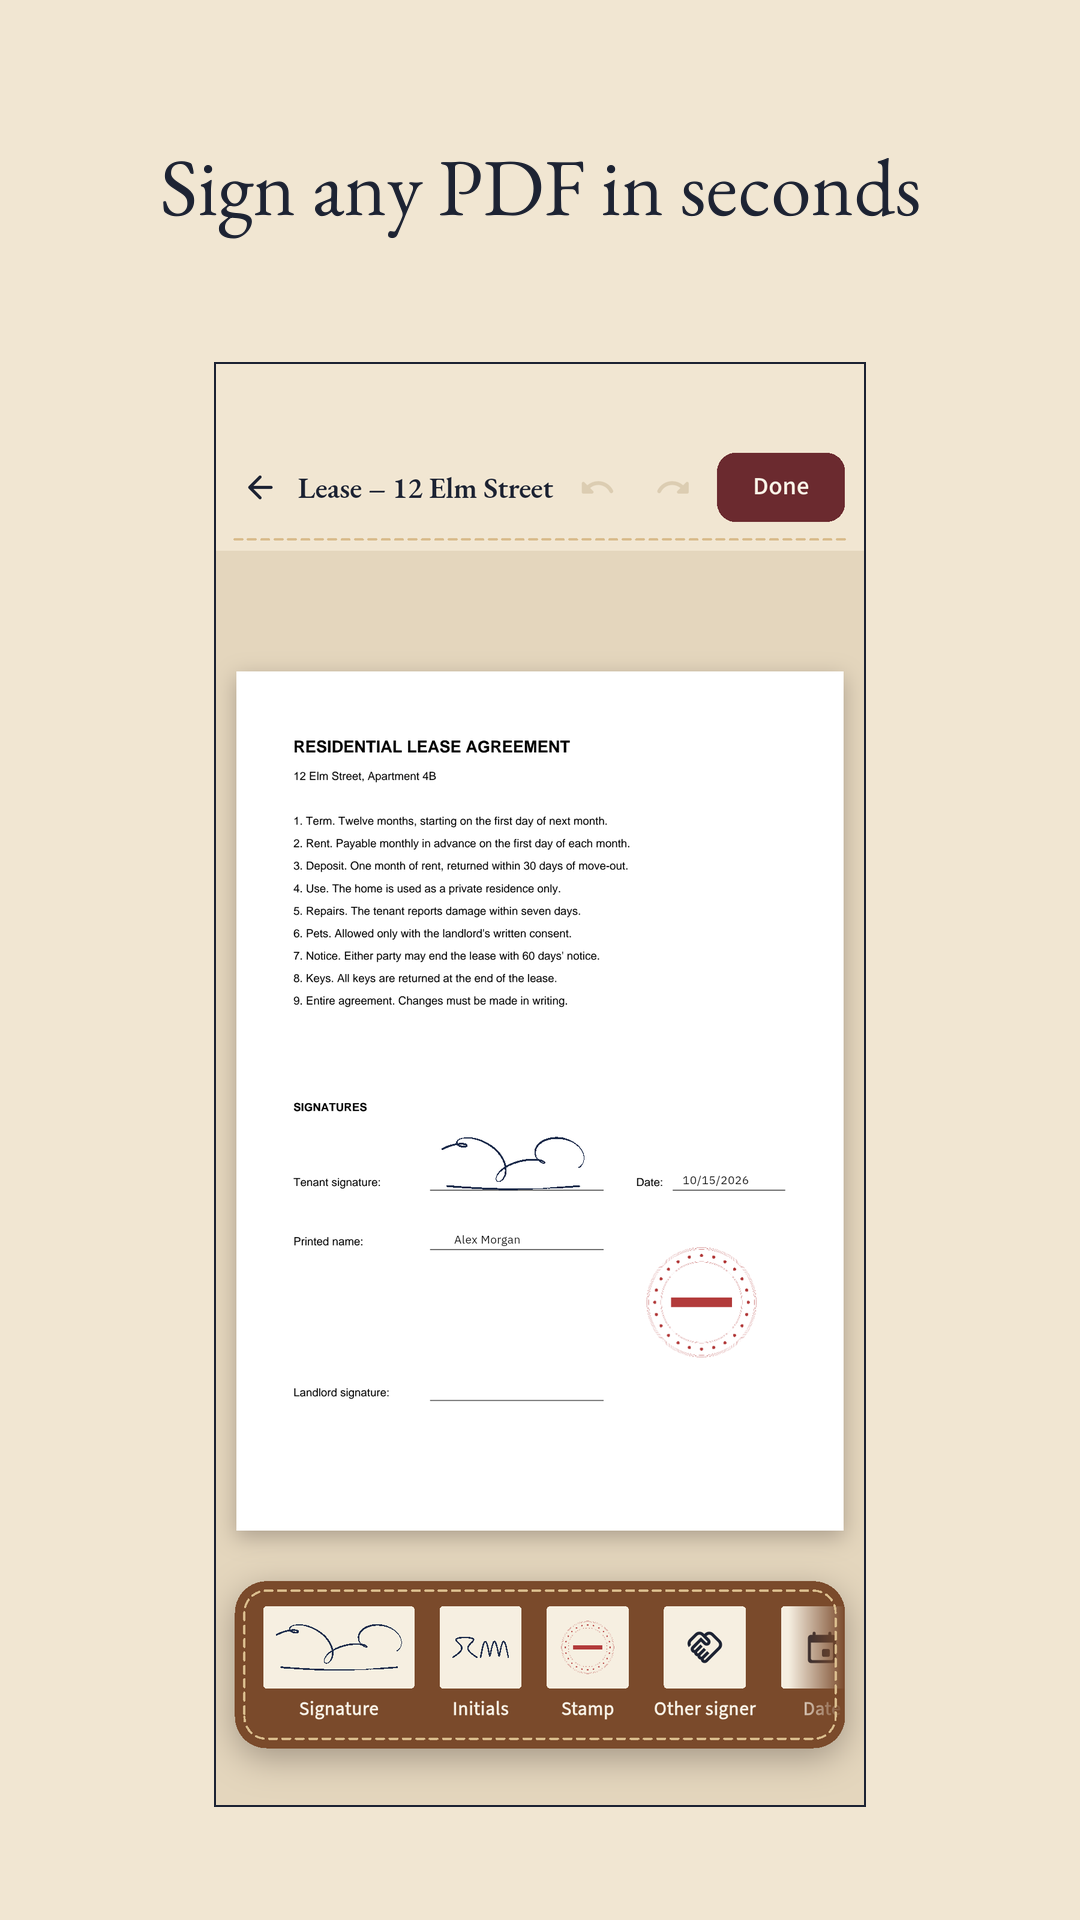
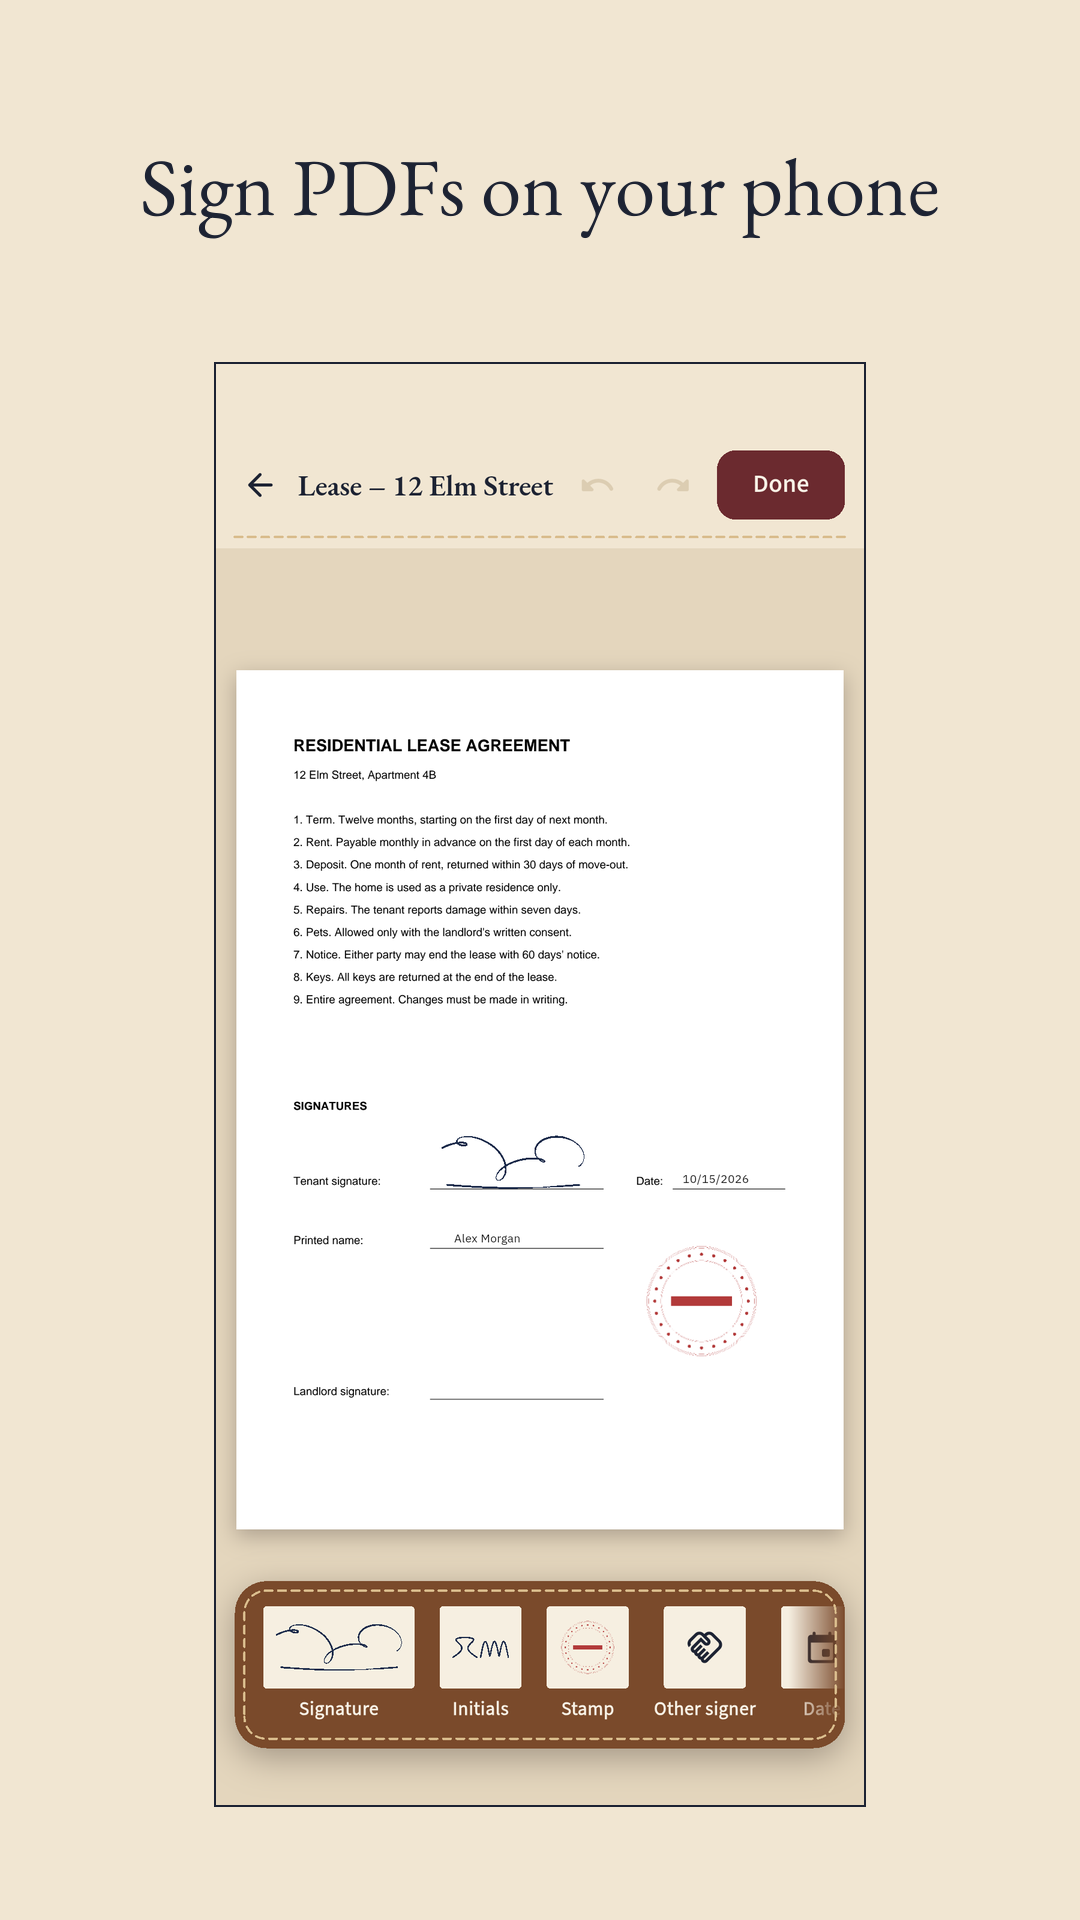
Publish apps/A05-fill-and-sign from main@9eca8dd8 (site/publish.sh, by hand)

diff --git a/index.html b/index.html
@@ -90,7 +90,7 @@ footer{margin:3rem 0 1rem;padding-top:1rem;border-top:1px solid var(--line);colo
 <ul class="shelf">
 <li style="--i:0"><a class="app" href="apps/cellwise/"><span class="info"><img class="icon" src="apps/cellwise/icon.png" alt="" width="88" height="88"><b>Cellwise – Nonogram</b><span>Picture cross logic puzzles solved without guessing. Colour, classic, offline.</span><span class="stamp stamp-live">Live on Google Play</span></span><span class="fan"><img src="apps/cellwise/shot2.png" alt="" width="1080" height="1920" loading="lazy"><img src="apps/cellwise/shot1.png" alt="" width="1080" height="1920" loading="lazy"><img src="apps/cellwise/shot3.png" alt="" width="1080" height="1920" loading="lazy"></span></a></li>
 <li style="--i:1"><a class="app" href="apps/leaftag/"><span class="info"><img class="icon" src="apps/leaftag/icon.png" alt="" width="88" height="88"><b>Leaftag</b><span>Plant watering reminder that learns from your soil checks, plus a light meter.</span><span class="stamp stamp-live">Live on Google Play</span></span><span class="fan"><img src="apps/leaftag/shot2.png" alt="" width="1080" height="1920" loading="lazy"><img src="apps/leaftag/shot1.png" alt="" width="1080" height="1920" loading="lazy"><img src="apps/leaftag/shot3.png" alt="" width="1080" height="1920" loading="lazy"></span></a></li>
-<li style="--i:2"><a class="app" href="apps/quillmark/"><span class="info"><img class="icon" src="apps/quillmark/icon.png" alt="" width="88" height="88"><b>Quillmark – Sign &amp; Initial</b><span>Sign PDF documents offline: e-signature, initials &amp; company stamp. No account.</span><span class="stamp stamp-live">Live on Google Play</span></span><span class="fan"><img src="apps/quillmark/shot2.png" alt="" width="1080" height="1920" loading="lazy"><img src="apps/quillmark/shot1.png" alt="" width="1080" height="1920" loading="lazy"><img src="apps/quillmark/shot3.png" alt="" width="1080" height="1920" loading="lazy"></span></a></li>
+<li style="--i:2"><a class="app" href="apps/quillmark/"><span class="info"><img class="icon" src="apps/quillmark/icon.png" alt="" width="88" height="88"><b>Sign PDF &amp; Stamp – Quillmark</b><span>Sign PDF documents offline: e-signature, initials &amp; company stamp. No account.</span><span class="stamp stamp-live">Live on Google Play</span></span><span class="fan"><img src="apps/quillmark/shot2.png" alt="" width="1080" height="1920" loading="lazy"><img src="apps/quillmark/shot1.png" alt="" width="1080" height="1920" loading="lazy"><img src="apps/quillmark/shot3.png" alt="" width="1080" height="1920" loading="lazy"></span></a></li>
 <li style="--i:3"><a class="app" href="apps/slipway/"><span class="info"><img class="icon" src="apps/slipway/icon.png" alt="" width="88" height="88"><b>Slipway – Arrow Escape Puzzle</b><span>Tap each arrow off the board, clear it and print a picture for your album.</span><span class="stamp stamp-live">Live on Google Play</span></span><span class="fan"><img src="apps/slipway/shot2.png" alt="" width="1080" height="1920" loading="lazy"><img src="apps/slipway/shot1.png" alt="" width="1080" height="1920" loading="lazy"><img src="apps/slipway/shot3.png" alt="" width="1080" height="1920" loading="lazy"></span></a></li>
 <li style="--i:4"><a class="app" href="apps/sudokukoan/"><span class="info"><img class="icon" src="apps/sudokukoan/icon.png" alt="" width="88" height="88"><b>Sudoku Koan</b><span>Calm daily sudoku with hints that teach the technique. Large print, offline.</span><span class="stamp stamp-live">Live on Google Play</span></span><span class="fan"><img src="apps/sudokukoan/shot2.png" alt="" width="1080" height="1920" loading="lazy"><img src="apps/sudokukoan/shot1.png" alt="" width="1080" height="1920" loading="lazy"><img src="apps/sudokukoan/shot3.png" alt="" width="1080" height="1920" loading="lazy"></span></a></li>
 </ul></section>

diff --git a/developers/index.html b/developers/index.html
@@ -99,8 +99,8 @@ footer{margin:3rem 0 1rem;padding-top:1rem;border-top:1px solid var(--line);colo
 <tr style="--i:9"><td><img class="icon" src="/apps/proofsheet/icon.png" alt="" width="40" height="40"></td><td><a href="/apps/proofsheet/">Proofsheet</a></td><td>A06</td><td>Not released</td><td><a href="/apps/proofsheet/privacy/">Privacy</a> <a href="/apps/proofsheet/terms/">Terms</a></td></tr>
 <tr style="--i:10"><td><img class="icon" src="/apps/pupstamp/icon.png" alt="" width="40" height="40"></td><td><a href="/apps/pupstamp/">Pupstamp</a></td><td>B29</td><td><span class="stamp stamp-review">In review at Google Play</span></td><td><a href="/apps/pupstamp/privacy/">Privacy</a> <a href="/apps/pupstamp/terms/">Terms</a></td></tr>
 <tr style="--i:11"><td><img class="icon" src="/apps/quadrille/icon.png" alt="" width="40" height="40"></td><td><a href="/apps/quadrille/">Quadrille</a></td><td>A14</td><td>Not released</td><td><a href="/apps/quadrille/privacy/">Privacy</a> <a href="/apps/quadrille/terms/">Terms</a></td></tr>
-<tr style="--i:12"><td><img class="icon" src="/apps/quillmark/icon.png" alt="" width="40" height="40"></td><td><a href="/apps/quillmark/">Quillmark – Sign &amp; Initial</a></td><td>A05</td><td><span class="stamp stamp-live">Live on Google Play</span></td><td><a href="/apps/quillmark/privacy/">Privacy</a> <a href="/apps/quillmark/terms/">Terms</a></td></tr>
-<tr style="--i:13"><td><img class="icon" src="/apps/runstarter/icon.png" alt="" width="40" height="40"></td><td><a href="/apps/runstarter/">Runstarter</a></td><td>B17</td><td>Not released</td><td><a href="/apps/runstarter/privacy/">Privacy</a> <a href="/apps/runstarter/terms/">Terms</a></td></tr>
+<tr style="--i:12"><td><img class="icon" src="/apps/runstarter/icon.png" alt="" width="40" height="40"></td><td><a href="/apps/runstarter/">Runstarter</a></td><td>B17</td><td>Not released</td><td><a href="/apps/runstarter/privacy/">Privacy</a> <a href="/apps/runstarter/terms/">Terms</a></td></tr>
+<tr style="--i:13"><td><img class="icon" src="/apps/quillmark/icon.png" alt="" width="40" height="40"></td><td><a href="/apps/quillmark/">Sign PDF &amp; Stamp – Quillmark</a></td><td>A05</td><td><span class="stamp stamp-live">Live on Google Play</span></td><td><a href="/apps/quillmark/privacy/">Privacy</a> <a href="/apps/quillmark/terms/">Terms</a></td></tr>
 <tr style="--i:14"><td><img class="icon" src="/apps/slipway/icon.png" alt="" width="40" height="40"></td><td><a href="/apps/slipway/">Slipway – Arrow Escape Puzzle</a></td><td>E01</td><td><span class="stamp stamp-live">Live on Google Play</span></td><td><a href="/apps/slipway/privacy/">Privacy</a> <a href="/apps/slipway/terms/">Terms</a></td></tr>
 <tr style="--i:15"><td><img class="icon" src="/apps/stampproof/icon.png" alt="" width="40" height="40"></td><td><a href="/apps/stampproof/">StampProof – Timestamp Camera</a></td><td>E10</td><td>Not released</td><td><a href="/apps/stampproof/privacy/">Privacy</a> <a href="/apps/stampproof/terms/">Terms</a></td></tr>
 <tr style="--i:16"><td><img class="icon" src="/apps/sudokukoan/icon.png" alt="" width="40" height="40"></td><td><a href="/apps/sudokukoan/">Sudoku Koan</a></td><td>D02</td><td><span class="stamp stamp-live">Live on Google Play</span></td><td><a href="/apps/sudokukoan/privacy/">Privacy</a> <a href="/apps/sudokukoan/terms/">Terms</a></td></tr>

diff --git a/apps/quillmark/privacy/index.html b/apps/quillmark/privacy/index.html
@@ -3,7 +3,7 @@
 <head>
 <meta charset="utf-8">
 <meta name="viewport" content="width=device-width, initial-scale=1">
-<title>Quillmark – Sign &amp; Initial: Privacy Policy</title>
+<title>Sign PDF &amp; Stamp – Quillmark: Privacy Policy</title>
 <style>
 :root{--paper:#f4efe6;--shelf:#e9e1d3;--ink:#1d1b18;--muted:#5d564c;--accent:#c4421d;--line:#d6ccbb;
 --display:"Iowan Old Style","Palatino Linotype",Palatino,Georgia,serif;color-scheme:light dark}
@@ -79,10 +79,11 @@ footer{margin:3rem 0 1rem;padding-top:1rem;border-top:1px solid var(--line);colo
 </style>
 </head>
 <body>
-<h1>Quillmark – Sign &amp; Initial: Privacy Policy</h1>
-<p>Last updated: 21 October 2026</p>
-<p>Quillmark is published by InfiV Labs (&quot;we&quot;). It lets you sign, initial and stamp documents, and it runs</p>
-<p>entirely on your device.</p>
+<h1>Sign PDF &amp; Stamp – Quillmark: Privacy Policy</h1>
+<p>Last updated: 17 November 2026</p>
+<p>This policy covers the Android and iOS app <b>Sign PDF &amp; Stamp – Quillmark</b> (&quot;Quillmark&quot;, package</p>
+<p>com.infivlabs.quillmark), published on Google Play by the developer <b>Kashyap10</b> under the name InfiV Labs (&quot;we&quot;).</p>
+<p>It lets you sign, initial and stamp documents, and it runs entirely on your device.</p>
 <h2>What we collect</h2>
 <ul><li><b>Nothing that identifies you.</b> There is no account, no sign-in and no server of our own.</li><li><b>Your documents, signatures, initials, stamp and printed name</b> are stored only in the app&#x27;s private storage on</li></ul>
 <p>your device. We never upload them. Delete them by deleting documents in the app or uninstalling it.</p>
@@ -116,6 +117,6 @@ footer{margin:3rem 0 1rem;padding-top:1rem;border-top:1px solid var(--line);colo
 <p>analytics and crash records held by RevenueCat and Firebase for your install, email infivlabs@gmail.com with</p>
 <p>the subject &quot;Quillmark data deletion&quot;; we act on it within 30 days.</p>
 <h2>Contact</h2>
-<p>InfiV Labs · infivlabs@gmail.com</p>
+<p>Kashyap10 (InfiV Labs) · infivlabs@gmail.com</p>
 </body>
 </html>

diff --git a/apps/quillmark/terms/index.html b/apps/quillmark/terms/index.html
@@ -3,7 +3,7 @@
 <head>
 <meta charset="utf-8">
 <meta name="viewport" content="width=device-width, initial-scale=1">
-<title>Quillmark – Sign &amp; Initial terms of use</title>
+<title>Sign PDF &amp; Stamp – Quillmark terms of use</title>
 <style>
 :root{--paper:#f4efe6;--shelf:#e9e1d3;--ink:#1d1b18;--muted:#5d564c;--accent:#c4421d;--line:#d6ccbb;
 --display:"Iowan Old Style","Palatino Linotype",Palatino,Georgia,serif;color-scheme:light dark}
@@ -79,10 +79,10 @@ footer{margin:3rem 0 1rem;padding-top:1rem;border-top:1px solid var(--line);colo
 </style>
 </head>
 <body>
-<h1>Quillmark – Sign &amp; Initial terms of use</h1>
-<p>Quillmark – Sign &amp; Initial is published by InfiV Labs ("we"). By using the app you agree to these terms.</p>
+<h1>Sign PDF &amp; Stamp – Quillmark terms of use</h1>
+<p>Sign PDF &amp; Stamp – Quillmark is published by InfiV Labs ("we"). By using the app you agree to these terms.</p>
 <h2>Using the app</h2>
-<p>You may use Quillmark – Sign &amp; Initial for your own personal, non-commercial use. Don't copy, resell or reverse-engineer it, or use
+<p>You may use Sign PDF &amp; Stamp – Quillmark for your own personal, non-commercial use. Don't copy, resell or reverse-engineer it, or use
 it in a way that breaks the law or the rules of the store you got it from.</p>
 <h2>Purchases and subscriptions</h2>
 <p>Paid features are sold through Google Play (or the App Store). Subscriptions renew automatically at the price

diff --git a/go/quillmark/index.html b/go/quillmark/index.html
@@ -3,7 +3,7 @@
 <head>
 <meta charset="utf-8">
 <meta name="viewport" content="width=device-width, initial-scale=1">
-<title>Quillmark – Sign &amp; Initial</title>
+<title>Sign PDF &amp; Stamp – Quillmark</title>
 <meta name="robots" content="noindex">
 <style>
 :root{--paper:#f4efe6;--shelf:#e9e1d3;--ink:#1d1b18;--muted:#5d564c;--accent:#c4421d;--line:#d6ccbb;
@@ -80,7 +80,7 @@ footer{margin:3rem 0 1rem;padding-top:1rem;border-top:1px solid var(--line);colo
 </style>
 </head>
 <body>
-<h1>Quillmark – Sign &amp; Initial</h1>
+<h1>Sign PDF &amp; Stamp – Quillmark</h1>
 <p><a class="button" href="https://play.google.com/store/apps/details?id=com.infivlabs.quillmark">Get it on Google Play</a></p>
 <script>var s=(new URLSearchParams(location.search).get('s')||'web').replace(/[^a-z0-9_-]/gi,'');var play='https://play.google.com/store/apps/details?id=com.infivlabs.quillmark&referrer='+encodeURIComponent('utm_source='+s+'&utm_medium=smartlink&utm_campaign=quillmark');var ios=/iPhone|iPad|iPod/.test(navigator.userAgent)||(/Macintosh/.test(navigator.userAgent)&&navigator.maxTouchPoints>1);location.replace(ios?'/apps/quillmark/':play);</script>
 </body>

diff --git a/apps/quillmark/index.html b/apps/quillmark/index.html
@@ -3,7 +3,7 @@
 <head>
 <meta charset="utf-8">
 <meta name="viewport" content="width=device-width, initial-scale=1">
-<title>Quillmark – Sign &amp; Initial</title>
+<title>Sign PDF &amp; Stamp – Quillmark</title>
 <style>
 :root{--paper:#f4efe6;--shelf:#e9e1d3;--ink:#1d1b18;--muted:#5d564c;--accent:#c4421d;--line:#d6ccbb;
 --display:"Iowan Old Style","Palatino Linotype",Palatino,Georgia,serif;color-scheme:light dark}
@@ -81,7 +81,7 @@ footer{margin:3rem 0 1rem;padding-top:1rem;border-top:1px solid var(--line);colo
 <body>
 <p class="back"><a href="/">InfiV Labs</a></p>
 <img class="icon" src="icon.png" alt="" width="96" height="96">
-<h1>Quillmark – Sign &amp; Initial</h1>
+<h1>Sign PDF &amp; Stamp – Quillmark</h1>
 <p class="lead">Sign PDF documents offline: e-signature, initials &amp; company stamp. No account.</p>
 <p><span class="stamp stamp-live">Live on Google Play</span></p>
 <p><a class="button" href="https://play.google.com/store/apps/details?id=com.infivlabs.quillmark">View on Google Play</a></p>
